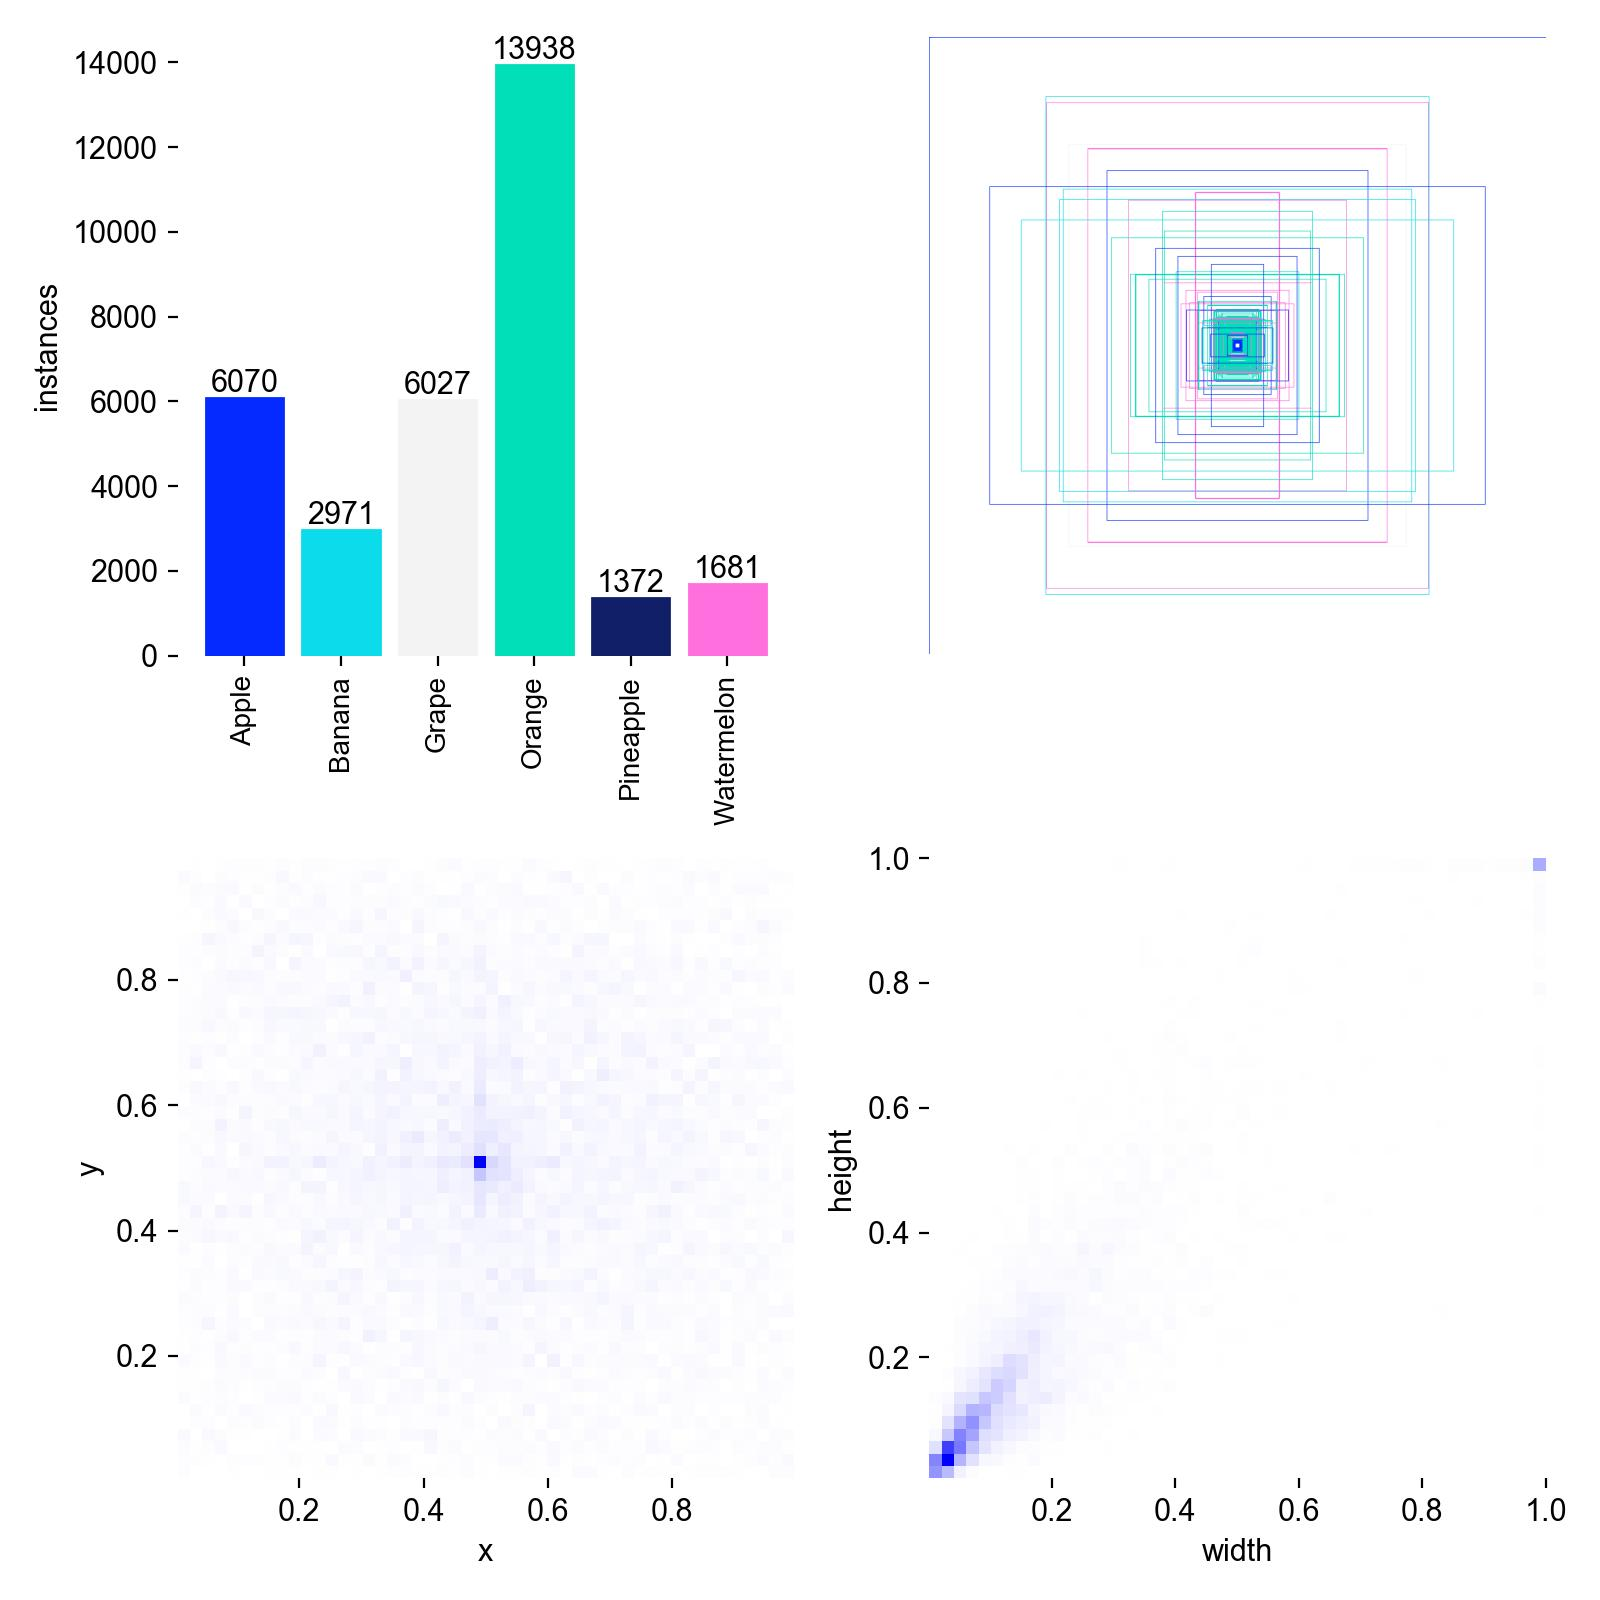
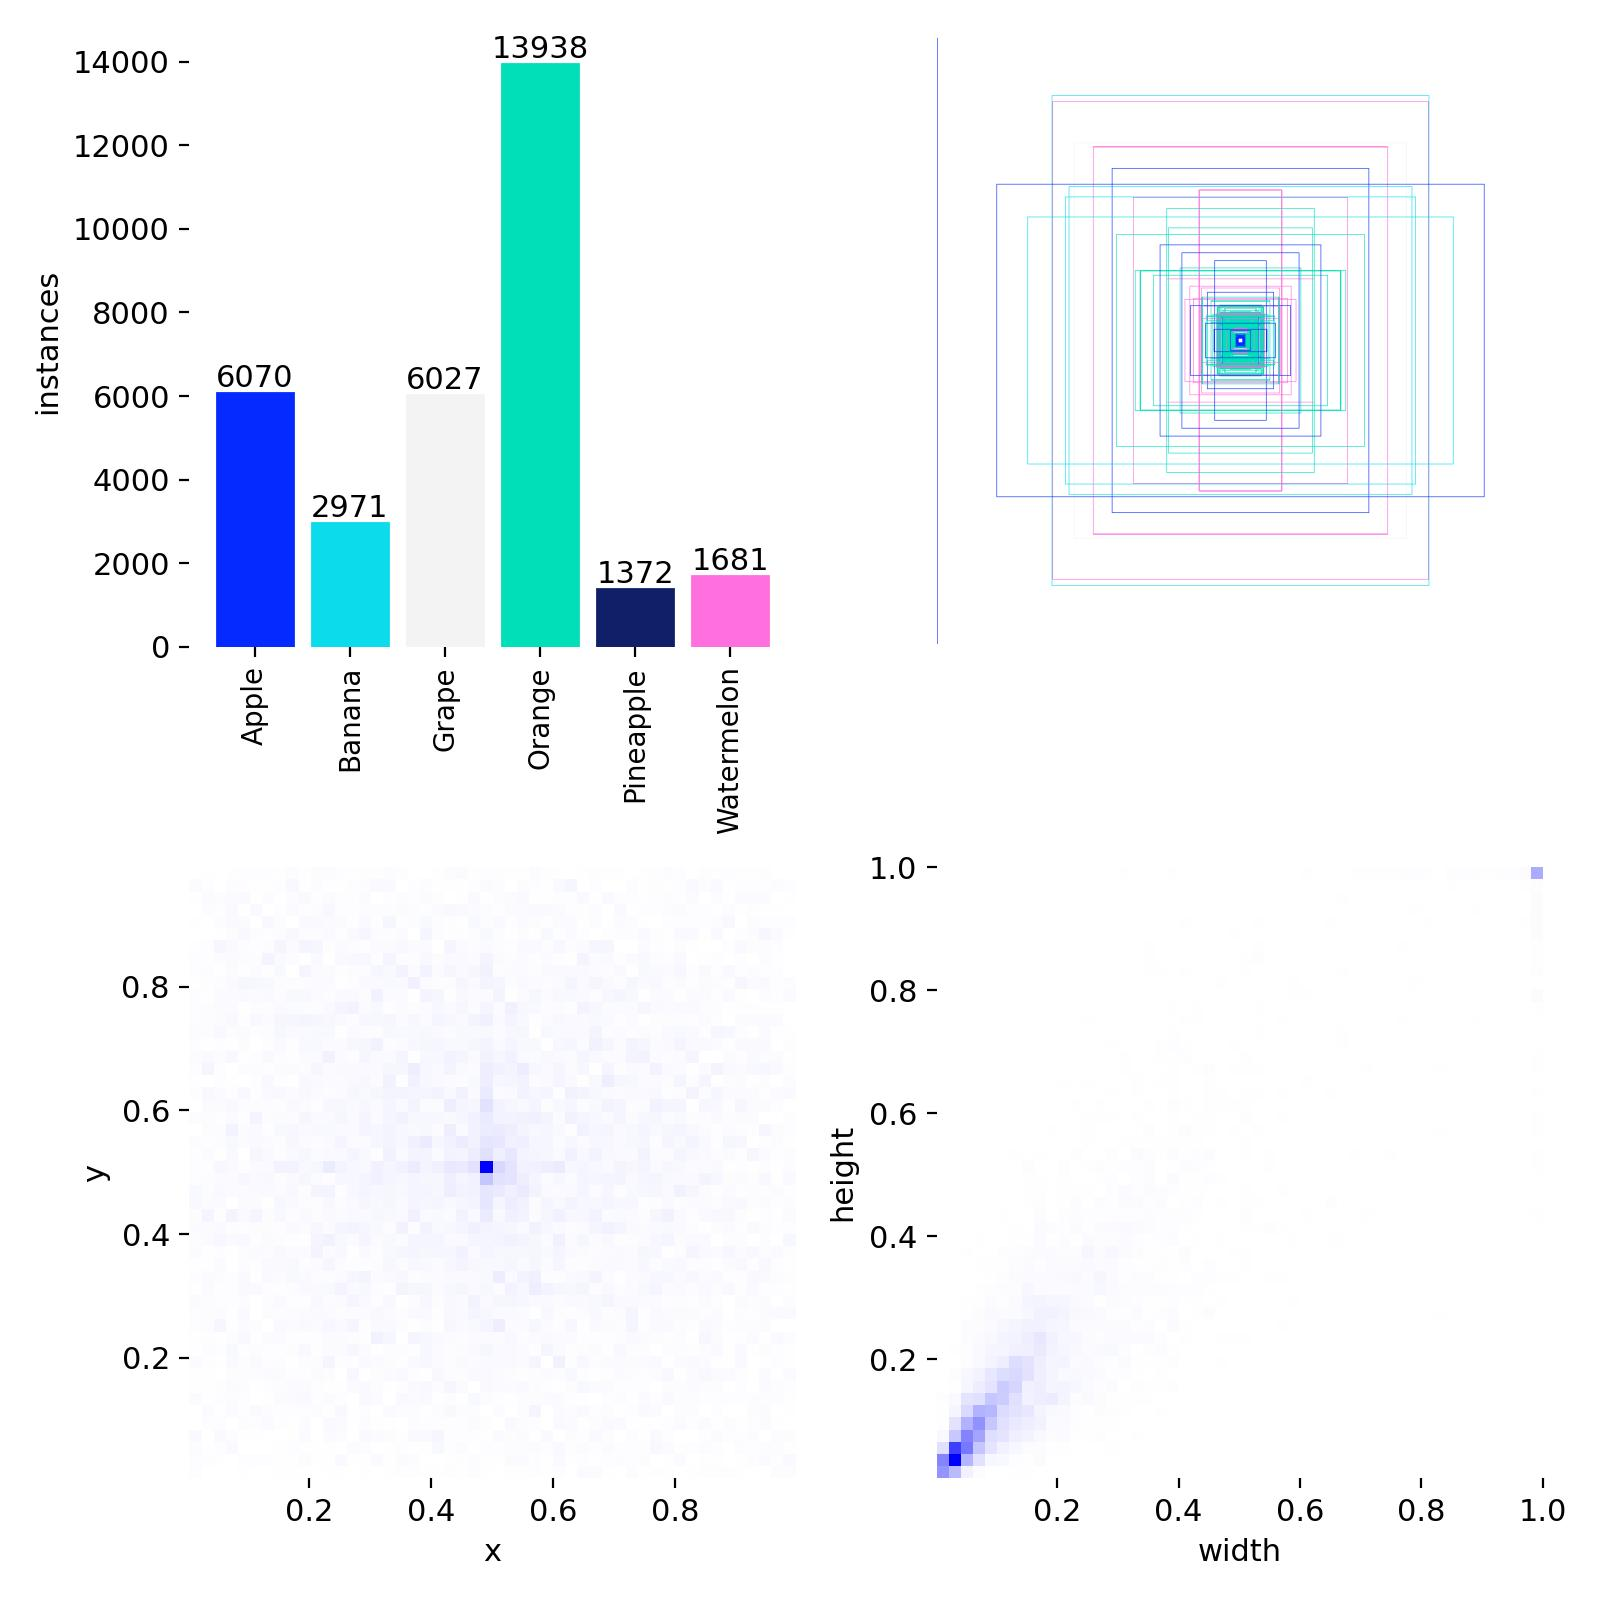
1.1

diff --git a/src/fruit_detection/cbam.py b/src/fruit_detection/cbam.py
@@ -1,0 +1,54 @@
+import torch
+import torch.nn as nn
+
+
+class ChannelAttention(nn.Module):
+    def __init__(self, channels, reduction=16):
+        super().__init__()
+        self.avg_pool = nn.AdaptiveAvgPool2d(1)
+        self.max_pool = nn.AdaptiveMaxPool2d(1)
+        self.fc = nn.Sequential(
+            nn.Conv2d(channels, channels // reduction, 1, bias=False),
+            nn.ReLU(inplace=True),
+            nn.Conv2d(channels // reduction, channels, 1, bias=False),
+        )
+        self.sigmoid = nn.Sigmoid()
+
+    def forward(self, x):
+        avg_out = self.fc(self.avg_pool(x))
+        max_out = self.fc(self.max_pool(x))
+        return self.sigmoid(avg_out + max_out) * x
+
+
+class SpatialAttention(nn.Module):
+    def __init__(self, kernel_size=7):
+        super().__init__()
+        self.conv = nn.Conv2d(2, 1, kernel_size, padding=kernel_size // 2, bias=False)
+        self.sigmoid = nn.Sigmoid()
+
+    def forward(self, x):
+        avg_out = torch.mean(x, dim=1, keepdim=True)
+        max_out, _ = torch.max(x, dim=1, keepdim=True)
+        return self.sigmoid(self.conv(torch.cat([avg_out, max_out], dim=1))) * x
+
+
+class CBAM(nn.Module):
+    def __init__(self, channels=None, reduction=16, kernel_size=7):
+        super().__init__()
+        self.reduction = reduction
+        self.kernel_size = kernel_size
+        self.channel_attention = None
+        self.spatial_attention = None
+        if channels is not None:
+            self._init_layers(channels)
+
+    def _init_layers(self, channels):
+        self.channel_attention = ChannelAttention(channels, self.reduction)
+        self.spatial_attention = SpatialAttention(self.kernel_size)
+
+    def forward(self, x):
+        if self.channel_attention is None:
+            self._init_layers(x.shape[1])
+        x = self.channel_attention(x)
+        x = self.spatial_attention(x)
+        return x

diff --git a/src/fruit_detection/train_yolo.py b/src/fruit_detection/train_yolo.py
@@ -63,10 +63,39 @@ def copy_report_assets(run_dir: Path, model_name: str) -> None:
             shutil.copy2(src, figures / target_name)
 
 
+def _build_cbam_model() -> YOLO:
+    """构建 YOLOv8n + CBAM 模型"""
+    import ultralytics.nn.tasks as tasks
+    from fruit_detection.cbam import CBAM
+
+    tasks.__dict__["CBAM"] = CBAM
+
+    yaml_path = root_dir() / "configs" / "yolov8n-cbam.yaml"
+    print(f"  🧩 从自定义配置构建 CBAM 模型: {yaml_path}")
+    model = YOLO(str(yaml_path))
+
+    print("  ⬇️  加载 yolov8n 预训练权重 (strict=False)...")
+    pretrained = YOLO("yolov8n.pt")
+    ckpt = pretrained.model.state_dict()
+    missing, unexpected = model.model.load_state_dict(ckpt, strict=False)
+    if missing:
+        print(f"  ⚠️  随机初始化的层 ({len(missing)}): {missing[:5]}...")
+    print("  ✅ CBAM 模型构建完成")
+    return model
+
+
 def train(args: argparse.Namespace) -> dict:
     device = select_device(args.device)
     data_yaml = args.dataset_dir / "data.yaml"
-    model = YOLO(args.weights)
+
+    # 判断是否为 CBAM 模型
+    is_cbam = "cbam" in args.weights.lower() or "cbam" in args.name.lower()
+
+    if is_cbam:
+        model = _build_cbam_model()
+    else:
+        model = YOLO(args.weights)
+
     results = model.train(
         data=str(data_yaml),
         epochs=args.epochs,
@@ -89,8 +118,12 @@ def train(args: argparse.Namespace) -> dict:
     shutil.copy2(last, models_dir / f"{args.name}_last.pt")
 
     trained = YOLO(str(best))
-    val = trained.val(data=str(data_yaml), split="test", imgsz=args.imgsz, batch=args.batch, device=device, workers=args.workers, plots=True)
+    val = trained.val(
+        data=str(data_yaml), split="test", imgsz=args.imgsz,
+        batch=args.batch, device=device, workers=args.workers, plots=True,
+    )
     fps = benchmark(trained, args.dataset_dir / "test" / "images", args.imgsz, device, args.speed_samples)
+
     pred_dir = REPORTS_DIR / "predictions"
     trained.predict(
         source=str(args.dataset_dir / "test" / "images"),
@@ -103,6 +136,7 @@ def train(args: argparse.Namespace) -> dict:
         exist_ok=True,
         max_det=50,
     )
+
     metrics_data = {
         "model": args.name,
         "weights": args.weights,
@@ -128,7 +162,7 @@ def main() -> None:
     parser.add_argument("--dataset-dir", type=Path, default=DATASET_DIR)
     parser.add_argument("--name", type=str, default="yolov8s_fruits")
     parser.add_argument("--weights", type=str, default="yolov8s.pt")
-    parser.add_argument("--epochs", type=int, default=20)
+    parser.add_argument("--epochs", type=int, default=50)
     parser.add_argument("--imgsz", type=int, default=640)
     parser.add_argument("--batch", type=int, default=16)
     parser.add_argument("--workers", type=int, default=0)

diff --git a/test_cbam.py b/test_cbam.py
@@ -1,0 +1,11 @@
+import ultralytics.nn.tasks as tasks
+from fruit_detection.cbam import CBAM
+
+# 注入到 YAML 解析器所在模块的全局命名空间
+tasks.__dict__["CBAM"] = CBAM
+
+from ultralytics import YOLO
+
+model = YOLO("configs/yolov8n-cbam.yaml")
+print("✅ CBAM 模型构建成功")
+print(model.model)

diff --git a/src/fruit_detection/compare_models.py b/src/fruit_detection/compare_models.py
@@ -16,7 +16,7 @@ def load_metric(path: Path) -> dict:
 
 
 def table_image(df: pd.DataFrame, output: Path) -> None:
-    fig, ax = plt.subplots(figsize=(9.5, 2.8), dpi=180)
+    fig, ax = plt.subplots(figsize=(9.5, 3.2), dpi=180)
     ax.axis("off")
     table = ax.table(cellText=df.values, colLabels=df.columns, loc="center", cellLoc="center")
     table.auto_set_font_size(False)
@@ -51,6 +51,7 @@ def prediction_sheet(reports_dir: Path, output: Path) -> None:
     dirs = [
         ("YOLOv8s", reports_dir / "predictions" / "yolov8s_fruits_test_predictions"),
         ("YOLOv8n", reports_dir / "predictions" / "yolov8n_fruits_test_predictions"),
+        ("YOLOv8n-CBAM", reports_dir / "predictions" / "yolov8n-cbam_fruits_test_predictions"),
     ]
     font = ImageFont.load_default()
     rows = []
@@ -79,7 +80,7 @@ def prediction_sheet(reports_dir: Path, output: Path) -> None:
 def main() -> None:
     parser = argparse.ArgumentParser(description="Build metric tables and model comparison screenshots.")
     parser.add_argument("--reports-dir", type=Path, default=REPORTS_DIR)
-    parser.add_argument("--models", nargs="+", default=["yolov8s_fruits", "yolov8n_fruits"])
+    parser.add_argument("--models", nargs="+", default=["yolov8s_fruits", "yolov8n_fruits", "yolov8n-cbam_fruits"])
     args = parser.parse_args()
     metrics_dir = ensure_dir(args.reports_dir / "metrics")
     figures = ensure_dir(args.reports_dir / "figures")

diff --git a/src/fruit_detection/run_pipeline.py b/src/fruit_detection/run_pipeline.py
@@ -18,8 +18,9 @@ def main() -> None:
     args = parser.parse_args()
     run(["fruit_detection.dataset_report"])
     if not args.skip_train:
-        run(["fruit_detection.train_yolo", "--name", "yolov8s_fruits", "--weights", "yolov8s.pt", "--epochs", "20", "--imgsz", "640", "--batch", "16"])
-        run(["fruit_detection.train_yolo", "--name", "yolov8n_fruits", "--weights", "yolov8n.pt", "--epochs", "20", "--imgsz", "640", "--batch", "16"])
+        run(["fruit_detection.train_yolo", "--name", "yolov8s_fruits", "--weights", "yolov8s.pt", "--epochs", "50", "--imgsz", "640", "--batch", "16"])
+        run(["fruit_detection.train_yolo", "--name", "yolov8n_fruits", "--weights", "yolov8n.pt", "--epochs", "50", "--imgsz", "640", "--batch", "16"])
+        run(["fruit_detection.train_yolo", "--name", "yolov8n-cbam_fruits", "--weights", "yolov8n-cbam", "--epochs", "50", "--imgsz", "640", "--batch", "16"])
     run(["fruit_detection.compare_models"])
     run(["fruit_detection.export_summary"])
 